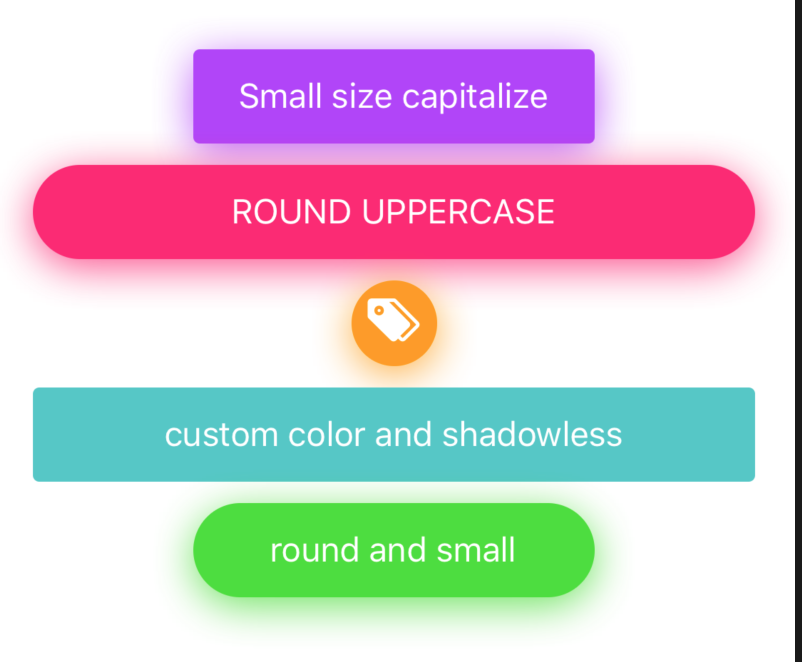
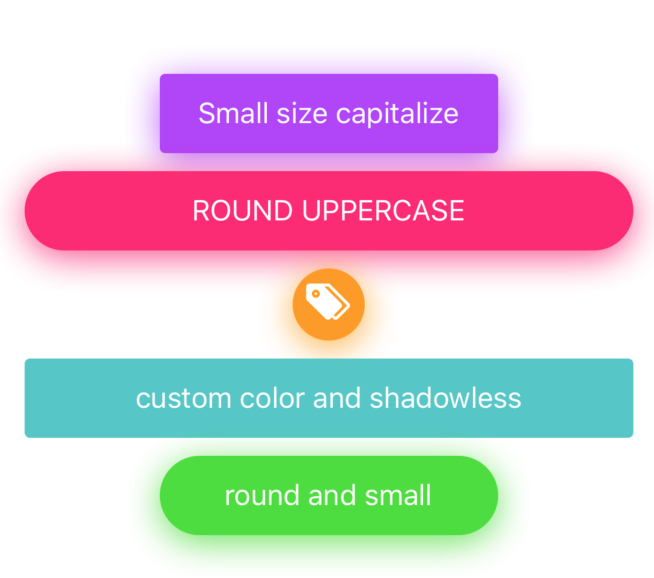
buttons and checkboxes extended

diff --git a/components/checkbox.md b/components/checkbox.md
@@ -12,18 +12,33 @@ Imports:
 import { Checkbox } from 'galio-framework';
 ```
 
-Simple example:
+![checkbox_simple](../assets/checkbox_simple.png)
+
+Code example:
 ```jsx
-<Checkbox
-  checkboxStyle={{
-    borderWidth: 3
-  }}
-  color={galioTheme.COLORS.PRIMARY}
-  labelStyle={{
-    color: galioTheme.COLORS.TEXT,
-  }}
-  label="Thanks for checking this checkbox"
-/>
+<Checkbox color="primary" label="Primary Checkbox" />
+<Checkbox color="info" label="Info Checkbox" />
+<Checkbox color="error" label="Error Checkbox" />
+<Checkbox color="warning" label="Warning Checkbox" />
+<Checkbox color="success" label="Success Checkbox" />
+```
+
+![checkbox_advanced](../assets/checkbox_advanced.png)
+
+Code example:
+```jsx
+<Checkbox color="primary" flexDirection="row-reverse" label="row-reverse checkbox" />
+<Checkbox color="info" initialValue={true} label="initialValue set to true" />
+<Checkbox color="error" initialValue={true} label="different icon" iconFamily="font-awesome" iconName="plane" />
+<Checkbox color="warning" labelStyle={{ color: '#FF9C09' }} label="labelStyle used here" />
+<Checkbox color="success" image="https://images.unsplash.com/photo-1569780655478-ecffea4c165c?ixlib=rb-1.2.1" flexDirection="column-reverse"/>
+```
+
+![checkbox_onChange](../assets/checkbox_onChange.gif)
+
+Code example:
+```jsx
+<Checkbox color="warning" onChange={() => alert('Galio is cool')} label="onChange is here" />
 ```
 
 ### Props

diff --git a/components/button.md b/components/button.md
@@ -11,9 +11,26 @@ Imports:
 import { Button } from 'galio-framework';
 ```
 
-Simple example:
+![buttons_simple](../assets/buttons_simple.png)
+
+Code example:
 ```jsx
-<Button>Press here!</Button>
+<Button>primary</Button>
+<Button color="info">info</Button>
+<Button color="success">success</Button>
+<Button color="warning">warning</Button>
+<Button color="error">error</Button>
+```
+
+![buttons_advanced](../assets/buttons_advanced.png)
+
+Code example:
+```jsx
+<Button capitalize size="small">small size capitalize</Button>
+<Button round uppercase color="error">round uppercase</Button>
+<Button onlyIcon icon="tags" iconFamily="antdesign" iconSize={30} color="warning" iconColor="#fff" style={{ width: 40, height: 40 }}>warning</Button>
+<Button color="#50C7C7" shadowless>custom color and shadowless</Button>
+<Button round size="small" color="success">round and small</Button>
 ```
 
 ### Props
